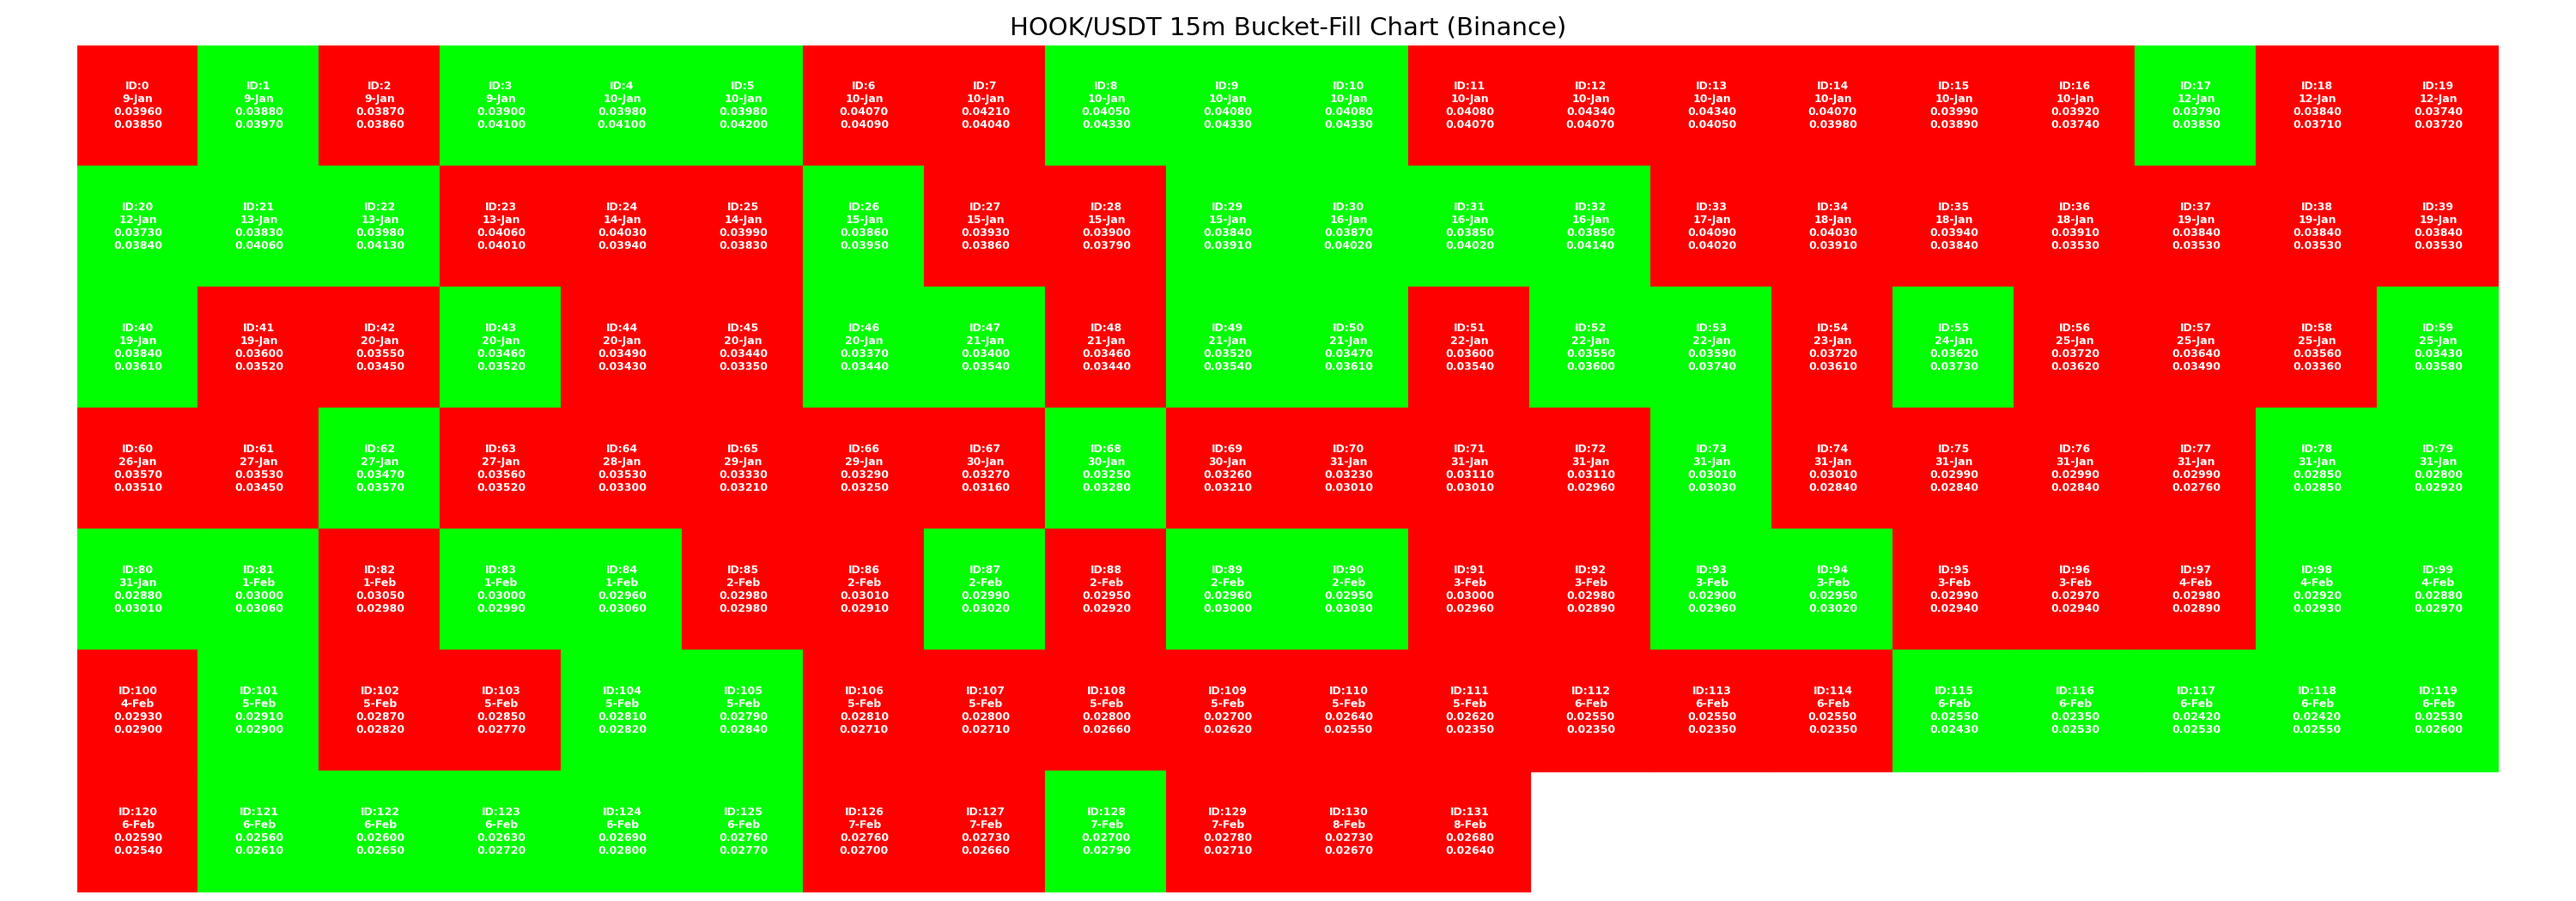
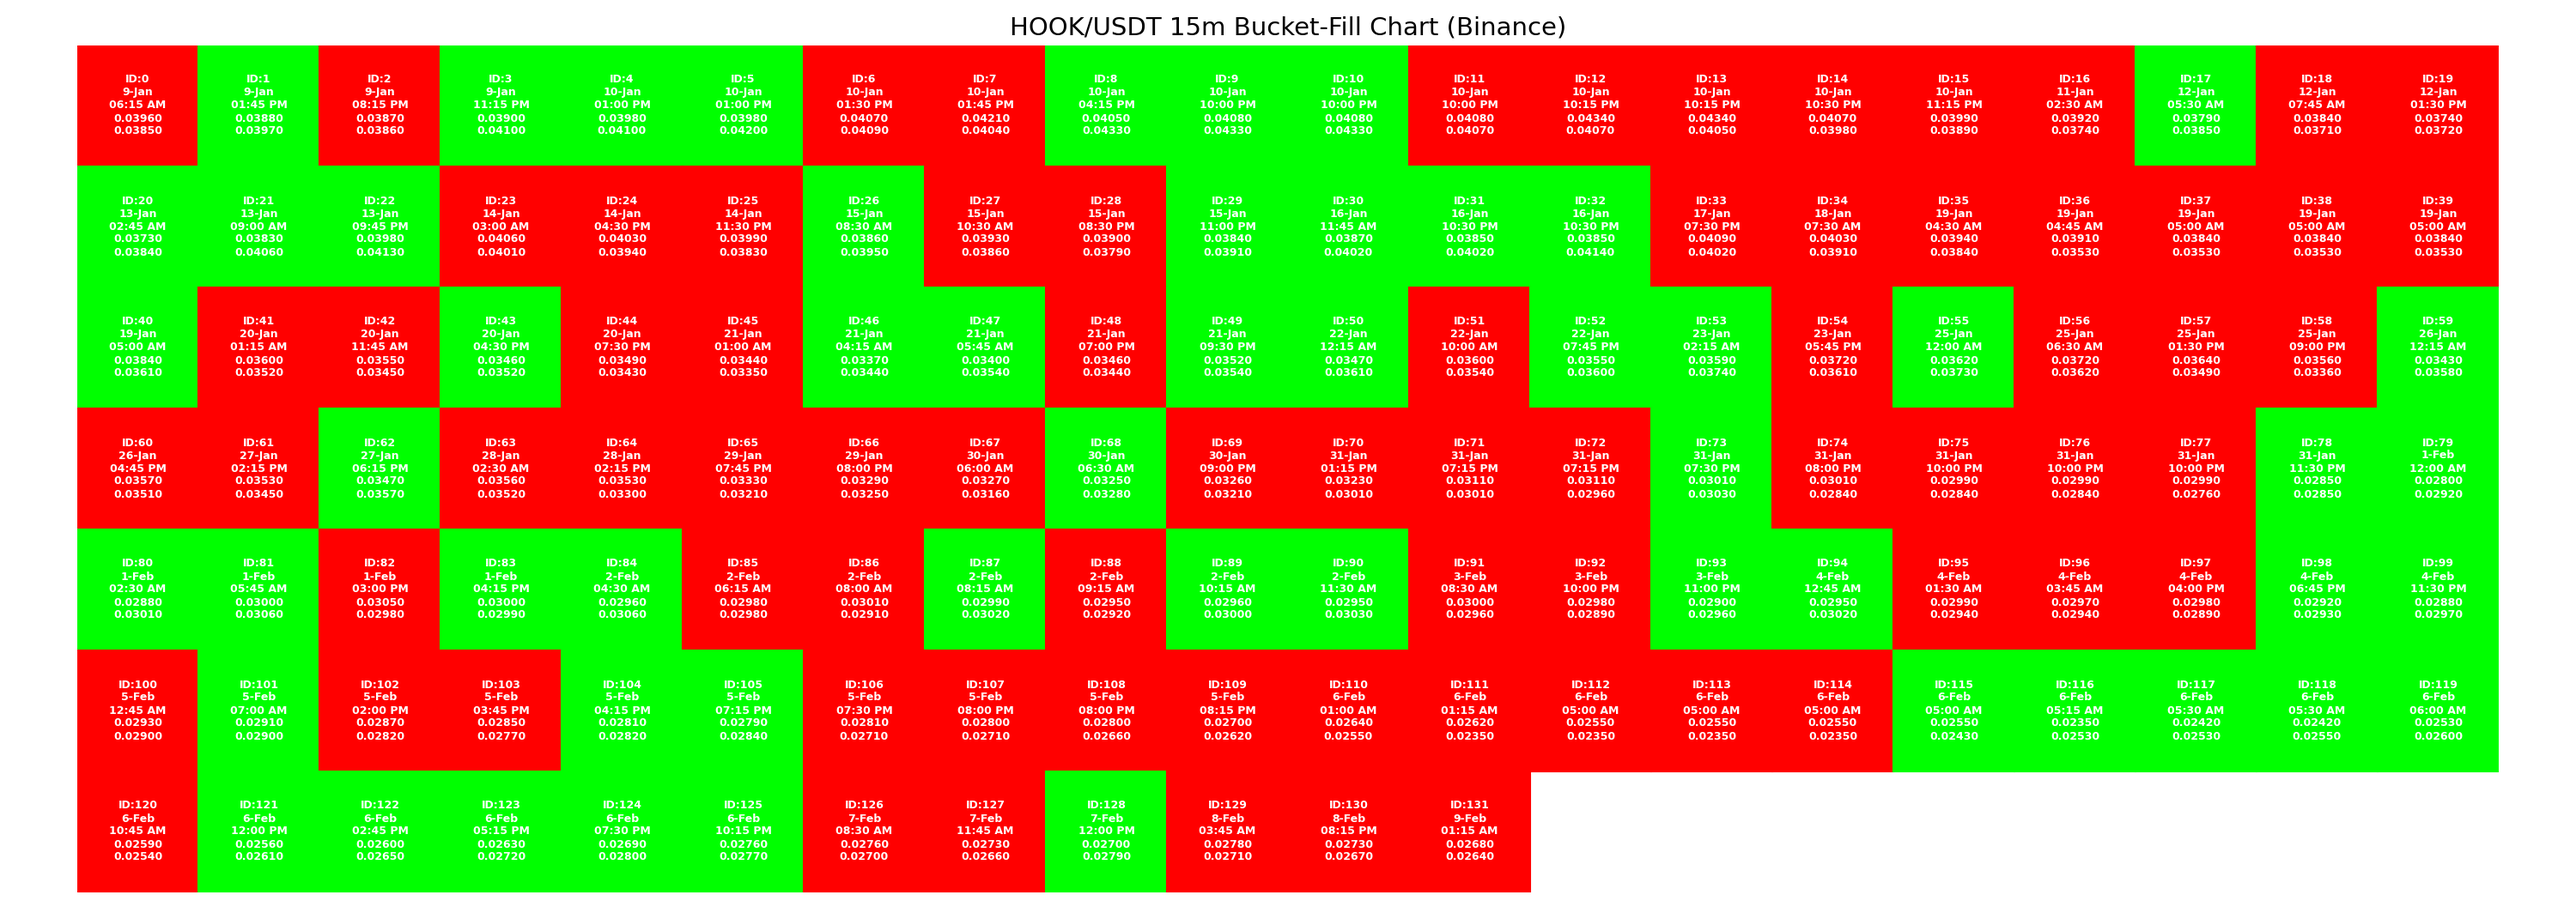
update

diff --git a/shard2/runner/bot_prod.py b/shard2/runner/bot_prod.py
@@ -113,7 +113,8 @@ def open_long_position(coin: str) -> bool:
         params = {"tableName": TABLE_NAME}
         resp = requests.post(url, json=payload, params=params, timeout=5)
         if resp.status_code == 200:
-            print(f"[{datetime.now()}] ✓ Opened long position for {coin} in {TABLE_NAME}")
+            gmt5_time = datetime.now(timezone.utc) + timedelta(hours=5)
+            print(f"[{datetime.now()}] ✓ Opened long position for {coin} in {TABLE_NAME} at {gmt5_time.strftime('%I:%M %p')} GMT+5")
             return True
         else:
             print(f"[{datetime.now()}] ✗ Failed to open position for {coin}: {resp.status_code} {resp.text}")
@@ -134,7 +135,8 @@ def open_short_position(coin: str) -> bool:
         params = {"tableName": TABLE_NAME}
         resp = requests.post(url, json=payload, params=params, timeout=5)
         if resp.status_code == 200:
-            print(f"[{datetime.now()}] ✓ Opened short position for {coin} in {TABLE_NAME}")
+            gmt5_time = datetime.now(timezone.utc) + timedelta(hours=5)
+            print(f"[{datetime.now()}] ✓ Opened short position for {coin} in {TABLE_NAME} at {gmt5_time.strftime('%I:%M %p')} GMT+5")
             return True
         else:
             print(f"[{datetime.now()}] ✗ Failed to open short position for {coin}: {resp.status_code} {resp.text}")
@@ -347,10 +349,12 @@ def process_coin(coin: str, out_dir: Path):
                 ax.add_patch(plt.Rectangle((c, r), 1, 1, color=color))
 
                 if o_price is not None and c_price is not None and date is not None:
+                    # Convert to GMT+5 for display
+                    gmt5_date = date + timedelta(hours=5)
                     ax.text(
                         c + 0.5,
                         r + 0.5,
-                        f"ID:{cup_id}\n{date.strftime('%-d-%b')}\n{o_price:.5f}\n{c_price:.5f}",
+                        f"ID:{cup_id}\n{gmt5_date.strftime('%d-%b').lstrip('0')}\n{gmt5_date.strftime('%I:%M %p')}\n{o_price:.5f}\n{c_price:.5f}",
                         ha="center",
                         va="center",
                         fontsize=6,
